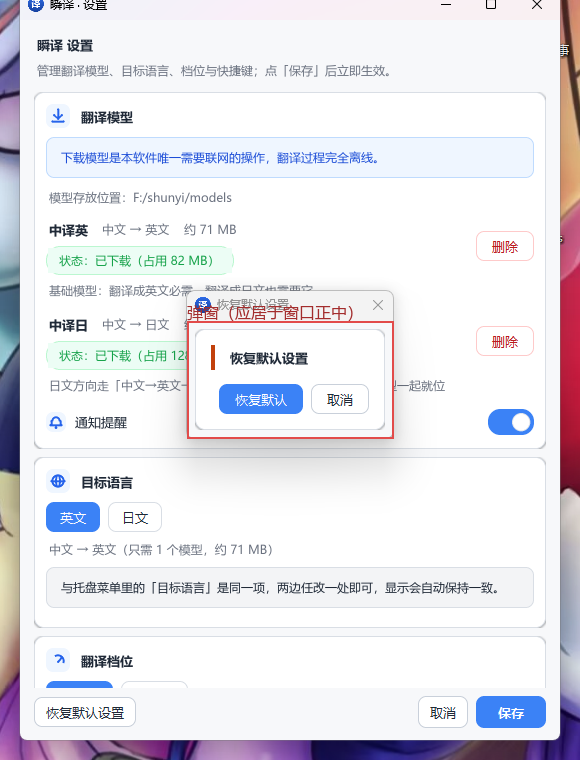
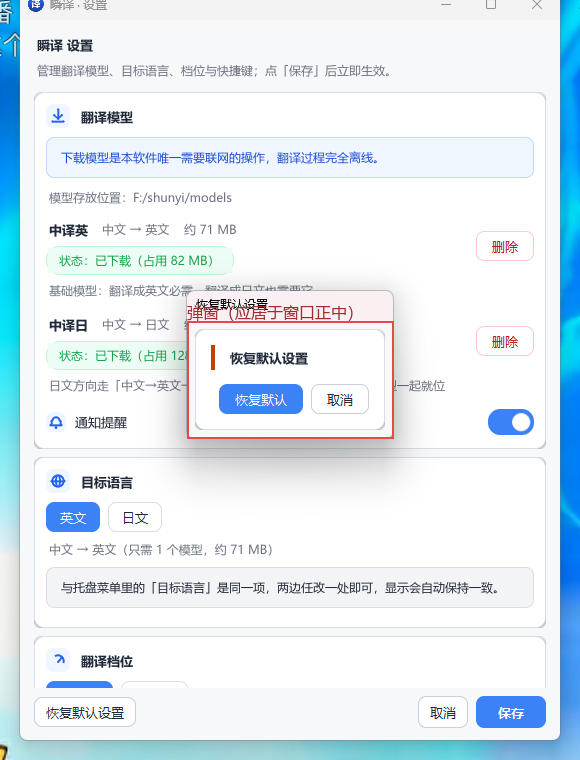
「恢复默认设置」确认框去掉标题栏的关闭按钮
按主人给的参考样式（无右上角 × 的确认框）调整：只保留「恢复默认 / 取消」两个操作，
标题栏与其余布局保持不变。

实现（app/dialogs.py）：
- 新增 _hide_close_button()：清窗口样式的 WS_SYSMENU 位，再用
  SetWindowPos(..., SWP_FRAMECHANGED) 通知系统重画非客户区（少这一步"×"要等
  下次尺寸变化才消失）；hwnd 取 top.frame() 而非 winfo_id()
- 不用 overrideredirect：那会把整个标题栏干掉，不符合"布局不变"
- ask/tell/_build/_run 新增 closable=True 参数（默认 True，其他弹窗零影响）；
  _on_restore_defaults 传 closable=False

顺带：.gitignore 增加 /_* 与 /tools/_* —— 历次排查留下的一次性脚本与截图
（_probe_* / _dbg_* / _shot_* 等）从不打算入库，加规则避免 `git add -A` 误提交。

验证：test_dialogs 扩到 26/26（新增 3 项：已去掉关闭按钮 / 标题栏仍保留 /
其他确认框默认参数仍带关闭按钮）；其余回归全绿；exe 重出并冒烟

diff --git a/app/dialogs.py b/app/dialogs.py
@@ -16,12 +16,47 @@
 
 from __future__ import annotations
 
+import ctypes
+import os
 import tkinter as tk
 
 from . import ui_kit as ui
 
 # 说明文字折行宽度（像素，随 DPI 缩放）
 _TEXT_WRAP = 380
+
+# 窗口样式相关常量（隐藏标题栏关闭按钮时用）
+_GWL_STYLE = -16
+_WS_SYSMENU = 0x00080000
+_SWP_NOSIZE, _SWP_NOMOVE, _SWP_NOZORDER, _SWP_FRAMECHANGED = 0x1, 0x2, 0x4, 0x20
+
+
+def _hide_close_button(top: tk.Toplevel) -> None:
+    """去掉标题栏右上角的关闭按钮（标题栏与其余布局保持不变）。
+
+    做法：清掉窗口样式里的 `WS_SYSMENU`（系统菜单）—— Windows 会把"×"连同
+    标题栏左键菜单一起去掉，标题文字和标题栏本身都还在，所以**布局一点不变**。
+
+    为什么不 `overrideredirect(True)`：那会把整个标题栏干掉，窗口位置/层级/外观
+    全变，不符合"样式布局不变"。
+    """
+    if os.name != "nt":
+        return
+    try:
+        top.update_idletasks()
+        hwnd = int(top.frame(), 16)          # wm_frame() 给的是顶层窗口句柄（十六进制串）
+        if not hwnd:
+            return
+        user32 = ctypes.windll.user32
+        style = user32.GetWindowLongW(hwnd, _GWL_STYLE)
+        if not style:
+            return
+        user32.SetWindowLongW(hwnd, _GWL_STYLE, style & ~_WS_SYSMENU)
+        # 通知系统按新样式重画非客户区，否则"×"要等下一次尺寸变化才消失
+        user32.SetWindowPos(hwnd, 0, 0, 0, 0, 0,
+                            _SWP_NOSIZE | _SWP_NOMOVE | _SWP_NOZORDER | _SWP_FRAMECHANGED)
+    except Exception:  # noqa: BLE001
+        pass
 
 
 def _accent_color(tone: str) -> str:
@@ -78,8 +113,13 @@ def _center_on_parent(top: tk.Toplevel, master) -> None:
         pass
 
 
-def _build(master, title: str, message: str, buttons, tone: str, default: str):
-    """构建对话框并返回 (Toplevel, 结果字典, 关闭函数)。"""
+def _build(master, title: str, message: str, buttons, tone: str, default: str,
+           closable: bool = True):
+    """构建对话框并返回 (Toplevel, 结果字典, 关闭函数)。
+
+    closable=False：去掉标题栏右上角的关闭按钮，只留「确认 / 取消」两个操作
+    （用于需要用户明确表态的确认框，避免"点 × 就悄悄取消"）。
+    """
     top = tk.Toplevel(master)
     top.title(title)
     top.configure(bg=ui.COLOR_PAGE)
@@ -141,11 +181,13 @@ def _build(master, title: str, message: str, buttons, tone: str, default: str):
     top.bind("<Escape>", lambda _e: _close("cancel"))
     top.bind("<Return>", lambda _e: _close(default))
     top.protocol("WM_DELETE_WINDOW", lambda: _close("cancel"))
+    if not closable:
+        _hide_close_button(top)
     return top, result, _close
 
 
-def _run(master, title, message, buttons, tone, default) -> str:
-    top, result, _close = _build(master, title, message, buttons, tone, default)
+def _run(master, title, message, buttons, tone, default, closable: bool = True) -> str:
+    top, result, _close = _build(master, title, message, buttons, tone, default, closable)
     try:
         top.grab_set()                 # 模态：必须先处理这个框
     except Exception:  # noqa: BLE001
@@ -162,21 +204,23 @@ def _run(master, title, message, buttons, tone, default) -> str:
 
 
 def ask(master, title: str, message: str, ok_text: str = "确定",
-        cancel_text: str = "取消", tone: str = "info", danger: bool = False) -> bool:
+        cancel_text: str = "取消", tone: str = "info", danger: bool = False,
+        closable: bool = True) -> bool:
     """确认框（模态）：确定返回 True，取消/关闭返回 False。
 
     danger=True 时确定按钮用红色（删除这类不可逆操作）。
+    closable=False 时不显示标题栏的关闭按钮，只留两个操作按钮。
     """
     value = _run(master, title, message,
                  [{"text": cancel_text, "value": "cancel", "kind": "secondary"},
                   {"text": ok_text, "value": "ok",
                    "kind": "danger" if danger else "primary"}],
-                 tone, "ok")
+                 tone, "ok", closable)
     return value == "ok"
 
 
 def tell(master, title: str, message: str, ok_text: str = "知道了",
-         tone: str = "info") -> None:
+         tone: str = "info", closable: bool = True) -> None:
     """提示框（模态，只有一个按钮）：用于必须让用户看到的失败/结果说明。"""
     _run(master, title, message,
-         [{"text": ok_text, "value": "ok", "kind": "primary"}], tone, "ok")
+         [{"text": ok_text, "value": "ok", "kind": "primary"}], tone, "ok", closable)

diff --git a/tools/test_dialogs.py b/tools/test_dialogs.py
@@ -214,7 +214,7 @@ def main():
             root, "恢复默认设置", "",
             [{"text": "取消", "value": "cancel", "kind": "secondary"},
              {"text": "恢复默认", "value": "ok", "kind": "primary"}],
-            "warn", "ok")
+            "warn", "ok", closable=False)
         dialogs._center_on_parent(top, root)
         # 真实使用时由 wait_window 的事件循环完成收敛；这里手动跑几轮
         for _ in range(8):
@@ -232,11 +232,20 @@ def main():
                 walk(c)
 
         walk(top)
+        style = 0
+        if os.name == "nt":
+            try:
+                import ctypes                            # noqa: E402
+                style = ctypes.windll.user32.GetWindowLongW(int(top.frame(), 16), -16)
+            except Exception:  # noqa: BLE001
+                style = 0
         off = (top.winfo_rootx() + top.winfo_reqwidth() // 2
                - (root.winfo_rootx() + root.winfo_width() // 2),
                top.winfo_rooty() + top.winfo_reqheight() // 2
                - (root.winfo_rooty() + root.winfo_height() // 2))
-        out = {"texts": texts, "buttons": buttons, "off": off,
+        out = {"texts": texts, "buttons": buttons, "off": off, "style": hex(style),
+               "has_close": bool(style & 0x00080000),
+               "has_caption": bool(style & 0x00C00000),
                "req": (top.winfo_reqwidth(), top.winfo_reqheight())}
         top.destroy()
         return out
@@ -249,6 +258,33 @@ def main():
     off = got.get("off") or (999, 999)
     check("弹窗居于设置窗口正中（客户区中心对齐，误差 ≤2px）",
           abs(off[0]) <= 2 and abs(off[1]) <= 2, f"偏移 Δx={off[0]} Δy={off[1]}")
+    check("已去掉标题栏的关闭按钮（WS_SYSMENU 被清）", not got.get("has_close"),
+          f"样式 {got.get('style')}")
+    check("标题栏本身还在（WS_CAPTION 保留 → 布局不变）", bool(got.get("has_caption")),
+          f"样式 {got.get('style')}")
+
+    def probe_normal_dialog():
+        """默认参数（closable=True）的弹窗应当仍有正常的关闭按钮。"""
+        root = settings.root
+        top, _r, _c = dialogs._build(
+            root, "删除模型", "要删吗？",
+            [{"text": "取消", "value": "cancel", "kind": "secondary"},
+             {"text": "删除", "value": "ok", "kind": "danger"}], "err", "ok")
+        top.update_idletasks()
+        top.update()
+        style = 0
+        if os.name == "nt":
+            try:
+                import ctypes                            # noqa: E402
+                style = ctypes.windll.user32.GetWindowLongW(int(top.frame(), 16), -16)
+            except Exception:  # noqa: BLE001
+                style = 0
+        top.destroy()
+        return bool(style & 0x00080000)
+
+    check("其他确认框（默认参数）仍带关闭按钮，没被一起改掉",
+          bool(settings.run_in_ui(probe_normal_dialog, timeout=10)),
+          "closable 默认 True")
 
     settings.shutdown()
     time.sleep(0.5)

diff --git a/tools/diag_dialog_restore.py b/tools/diag_dialog_restore.py
@@ -33,14 +33,23 @@ def show():
         root, "恢复默认设置", "",
         [{"text": "取消", "value": "cancel", "kind": "secondary"},
          {"text": "恢复默认", "value": "ok", "kind": "primary"}],
-        "warn", "ok")
+        "warn", "ok", closable=False)
     dialogs._center_on_parent(top, root)
     top.update_idletasks()
     top.update()
     time.sleep(0.4)
     top.update()
     BOX["top"] = top
-    BOX["grab"] = top.grab_current() is not None
+    # 复核窗口样式：WS_SYSMENU 位应当已被清掉（= 关闭按钮消失）
+    try:
+        import ctypes                                    # noqa: E402
+        hwnd = int(top.frame(), 16)
+        style = ctypes.windll.user32.GetWindowLongW(hwnd, -16)
+        BOX["style"] = hex(style)
+        BOX["sysmenu"] = bool(style & 0x00080000)
+        BOX["caption"] = bool(style & 0x00C00000)
+    except Exception as exc:  # noqa: BLE001
+        BOX["style"] = f"读取失败: {exc}"
     BOX["geo"] = (top.winfo_rootx(), top.winfo_rooty(),
                   top.winfo_reqwidth(), top.winfo_reqheight())
     BOX["parent"] = (root.winfo_rootx(), root.winfo_rooty(),
@@ -82,7 +91,8 @@ print(f"弹窗    : {ww}×{wh} @({wx},{wy})   中心=({dx},{dy})")
 print(f"偏移    : Δx={dx - cx:+d}  Δy={dy - cy:+d}  （居中时都应为 0，误差 ≤1 属取整）")
 print("弹窗里的文字控件:", BOX["texts"])
 print("按钮:", BOX["buttons"])
-print("transient 父窗口:", BOX["transient"])
+print("窗口样式:", BOX.get("style"), " WS_SYSMENU(关闭按钮)=", BOX.get("sysmenu"),
+      " WS_CAPTION(标题栏)=", BOX.get("caption"))
 
 full = ImageGrab.grab(bbox=(px - 20, py - 20, px + pw + 20, py + ph + 20))
 os.makedirs(r"F:\shunyi\docs\_diag", exist_ok=True)

diff --git a/app/settings_window.py b/app/settings_window.py
@@ -1736,10 +1736,12 @@ class SettingsWindow:
 
     def _on_restore_defaults(self) -> None:
         # 简洁确认框：只要标题 + 「恢复默认 / 取消」两个按钮，不写说明文字 ——
-        # 标题已经说清要做什么，再堆一段"会改哪几项"反而让人多读一遍（2026-10-01 调整）。
+        # 标题已经说清要做什么，再堆一段"会改哪几项"反而让人多读一遍。
+        # closable=False：去掉标题栏的"×"，强制用户在两个按钮里明确选一个
+        # （2026-10-01 按主人给参考样式调整：不要角落那个不表态的关闭按钮）。
         if not dialogs.ask(
                 self.root, "恢复默认设置", "",
-                ok_text="恢复默认", tone="warn"):
+                ok_text="恢复默认", tone="warn", closable=False):
             return
         self._pending_hotkey = DEFAULT_HOTKEY
         self._pending_quality = "fast"
